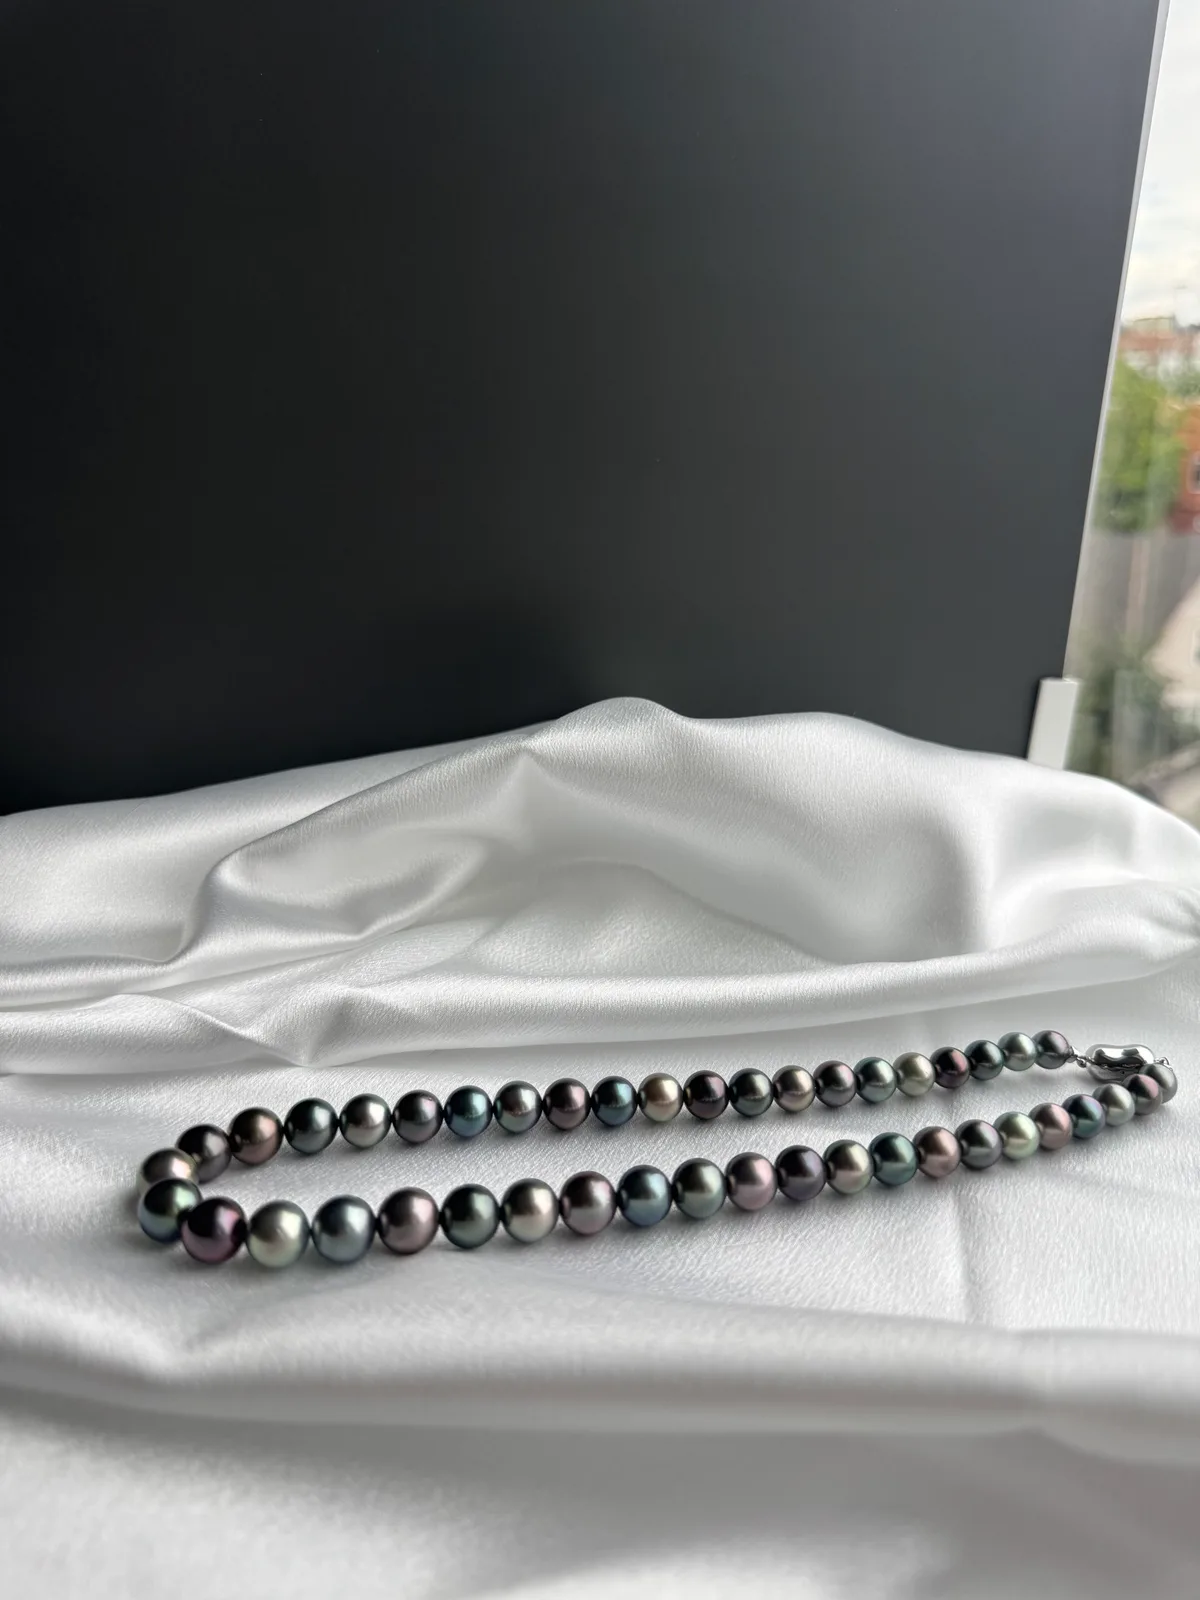
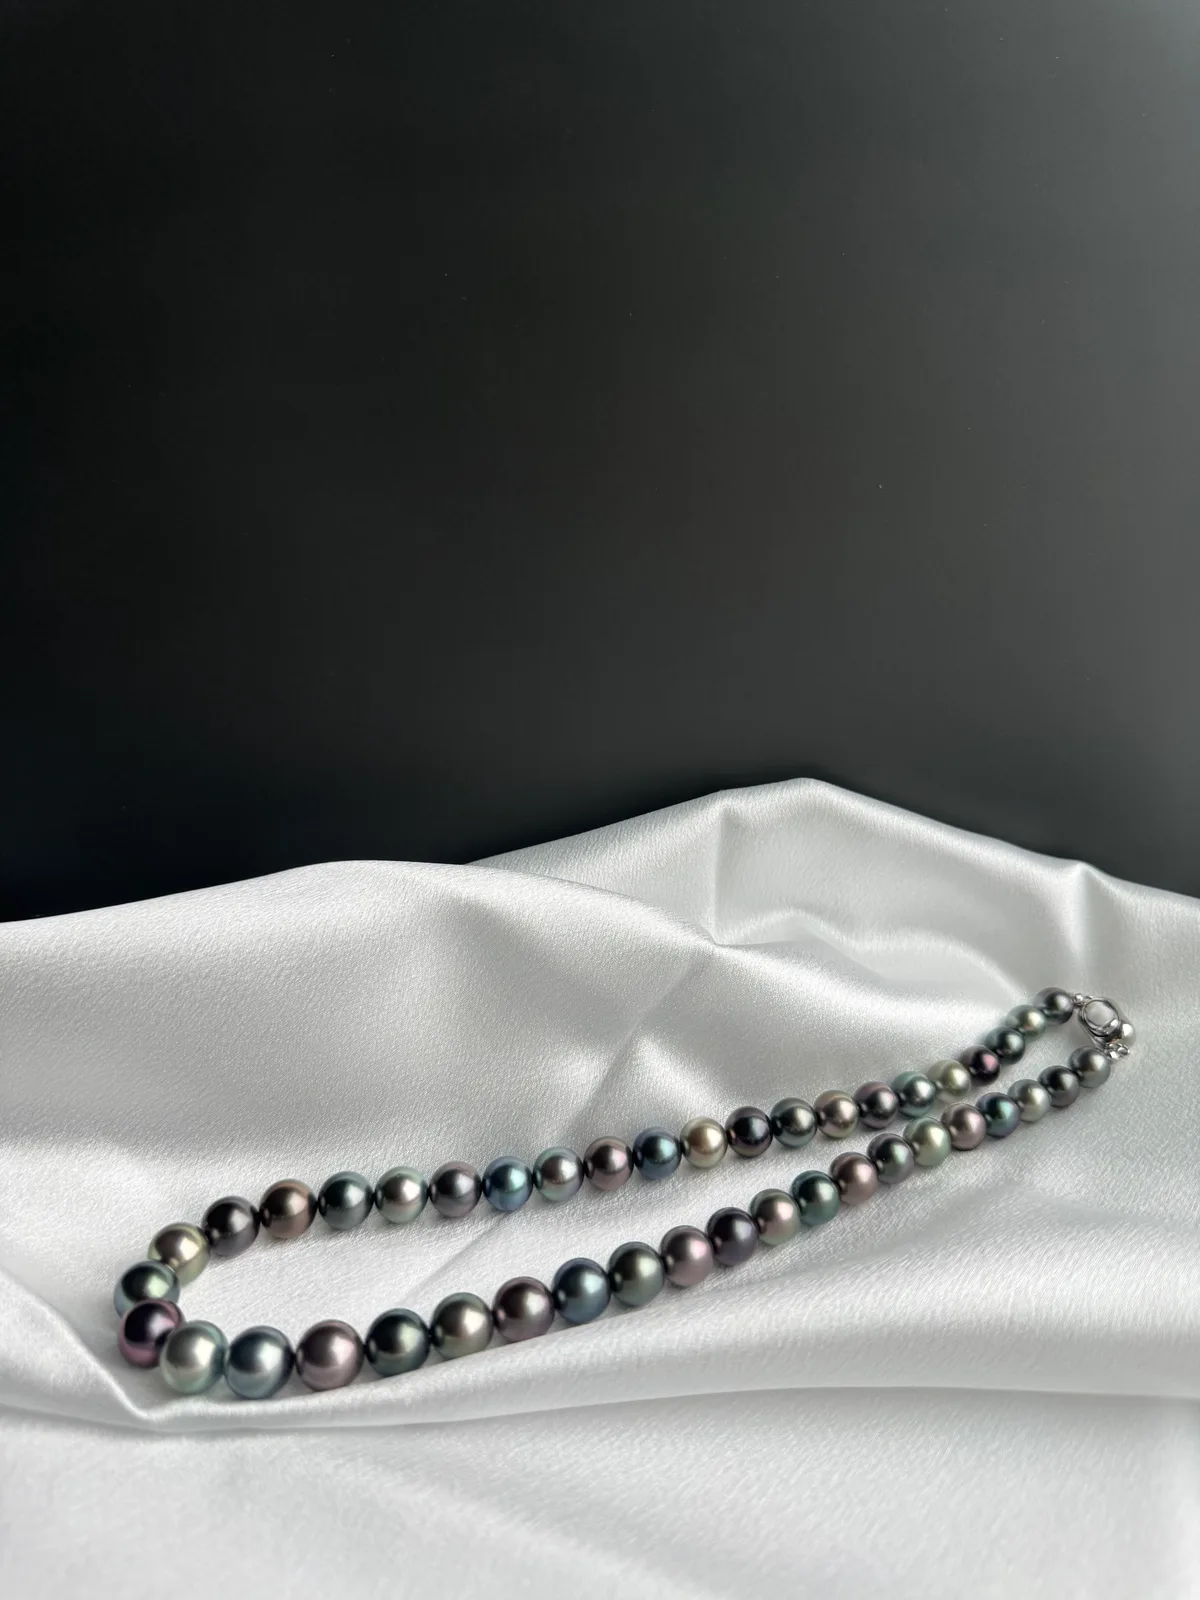
Add South Sea Apple pendant (Venus 13mm), reorder necklaces, refresh photos
- Mark Akoya Confetti and Akoya Full Strand (8.0-8.5mm) necklaces as out of
  stock, and move all out-of-stock necklaces to the end of the catalog
- Move Akoya Ribbon Full Strand Necklace to the front of the necklace page
- Add new South Sea Apple Pendant (Venus 13.0mm) product with EN/ZH copy
  and feature it on the New Arrivals page
- Refresh gallery photos for the South Sea 11.0mm earrings and the
  Tahitian full strand necklace

diff --git a/src/data/products/necklaces.ts b/src/data/products/necklaces.ts
@@ -2,6 +2,22 @@ import type { Product } from "./types";
 
 export const necklacesProducts: Product[] = [
   {
+    id: "necklace-akoya-8.5-9.0mm",
+    featured: false,
+    collection: "akoya",
+    category: "necklaces",
+    line: "forever",
+    titleKey: "products.necklace-akoya-8.5-9.0mm",
+    descriptionKey: "necklace-akoya-8.5-9.0mm",
+    images: [
+      "/gallery/necklace/necklace/akoya-8.5-9.0mm/akoya-8.5-9.0mm-1.webp",
+      "/gallery/necklace/necklace/akoya-8.5-9.0mm/akoya-8.5-9.0mm-2.webp",
+      "/gallery/necklace/necklace/akoya-8.5-9.0mm/akoya-8.5-9.0mm-3.webp",
+      "/gallery/necklace/necklace/akoya-8.5-9.0mm/akoya-8.5-9.0mm-4.webp",
+      "/gallery/necklace/necklace/akoya-8.5-9.0mm/akoya-8.5-9.0mm-5.webp",
+    ],
+  },
+  {
     id: "pendant-akoya-wg-diana",
     featured: false,
     collection: "akoya",
@@ -32,23 +48,6 @@ export const necklacesProducts: Product[] = [
       "/gallery/necklace/pendant/akoya-classic/akoya-classic-4.webp",
       "/gallery/necklace/pendant/akoya-classic/akoya-classic-5.webp",
       "/gallery/necklace/pendant/akoya-classic/akoya-classic-6.webp",
-    ],
-  },
-  {
-    id: "pendant-tahitian-necklace",
-    featured: false,
-    collection: "tahitian",
-    category: "necklaces",
-    line: "signature",
-    limited: true,
-    outOfStock: true,
-    titleKey: "products.pendant-tahitian-necklace",
-    descriptionKey: "pendant-tahitian-necklace",
-    images: [
-      "/gallery/necklace/pendant/tahitian-necklace/tahitian-necklace-1.webp",
-      "/gallery/necklace/pendant/tahitian-necklace/tahitian-necklace-2.webp",
-      "/gallery/necklace/pendant/tahitian-necklace/tahitian-necklace-3.webp",
-      "/gallery/necklace/pendant/tahitian-necklace/tahitian-necklace-4.webp",
     ],
   },
   {
@@ -84,96 +83,6 @@ export const necklacesProducts: Product[] = [
     ],
   },
   {
-    id: "necklace-akoya-7.5mm",
-    featured: false,
-    collection: "akoya",
-    category: "necklaces",
-    line: "signature",
-    outOfStock: true,
-    titleKey: "products.necklace-akoya-7.5mm",
-    descriptionKey: "necklace-akoya-7.5mm",
-    images: [
-      "/gallery/necklace/necklace/akoya-7.5mm/akoya-7.5mm-1.webp",
-      "/gallery/necklace/necklace/akoya-7.5mm/akoya-7.5mm-2.webp",
-      "/gallery/necklace/necklace/akoya-7.5mm/akoya-7.5mm-3.webp",
-      "/gallery/necklace/necklace/akoya-7.5mm/akoya-7.5mm-4.webp",
-    ],
-  },
-  {
-    id: "necklace-m-akoya-candy-8.0",
-    featured: false,
-    collection: "akoya",
-    category: "necklaces",
-    line: "forever",
-    limited: true,
-    titleKey: "products.necklace-m-akoya-candy-8.0",
-    descriptionKey: "necklace-m-akoya-candy-8.0",
-    images: [
-      "/gallery/necklace/necklace/m-akoya-candy-8.0/m-akoya-candy-8.0-1.webp",
-      "/gallery/necklace/necklace/m-akoya-candy-8.0/m-akoya-candy-8.0-2.webp",
-      "/gallery/necklace/necklace/m-akoya-candy-8.0/m-akoya-candy-8.0-3.webp",
-      "/gallery/necklace/necklace/m-akoya-candy-8.0/m-akoya-candy-8.0-4.webp",
-      "/gallery/necklace/necklace/m-akoya-candy-8.0/m-akoya-candy-8.0-5.webp",
-    ],
-  },
-  {
-    id: "necklace-m-akoya-8-8.5-q1",
-    featured: false,
-    collection: "akoya",
-    category: "necklaces",
-    line: "forever",
-    limited: true,
-    outOfStock: true,
-    titleKey: "products.necklace-m-akoya-8-8.5-q1",
-    descriptionKey: "necklace-m-akoya-8-8.5-q1",
-    images: [
-      "/gallery/necklace/necklace/m-akoya-8-8.5-q1/m-akoya-8-8.5-q1-1.webp",
-      "/gallery/necklace/necklace/m-akoya-8-8.5-q1/m-akoya-8-8.5-q1-2.webp",
-      "/gallery/necklace/necklace/m-akoya-8-8.5-q1/m-akoya-8-8.5-q1-3.webp",
-      "/gallery/necklace/necklace/m-akoya-8-8.5-q1/m-akoya-8-8.5-q1-4.webp",
-      "/gallery/necklace/necklace/m-akoya-8-8.5-q1/m-akoya-8-8.5-q1-5.webp",
-    ],
-  },
-  {
-    id: "necklace-m-akoya-8.5mm",
-    featured: false,
-    collection: "akoya",
-    category: "necklaces",
-    line: "forever",
-    limited: true,
-    titleKey: "products.necklace-m-akoya-8.5mm",
-    descriptionKey: "necklace-m-akoya-8.5mm",
-    images: [
-      "/gallery/necklace/necklace/m-akoya-8.5mm/m-akoya-8.5mm-1.webp",
-      "/gallery/necklace/necklace/m-akoya-8.5mm/m-akoya-8.5mm-2.webp",
-      "/gallery/necklace/necklace/m-akoya-8.5mm/m-akoya-8.5mm-3.webp",
-      "/gallery/necklace/necklace/m-akoya-8.5mm/m-akoya-8.5mm-4.webp",
-      "/gallery/necklace/necklace/m-akoya-8.5mm/m-akoya-8.5mm-5.webp",
-      "/gallery/necklace/necklace/m-akoya-8.5mm/m-akoya-8.5mm-6.webp",
-      "/gallery/necklace/necklace/m-akoya-8.5mm/m-akoya-8.5mm-7.webp",
-    ],
-  },
-  {
-    id: "necklace-southsea-8.0-10.0",
-    featured: false,
-    collection: "southsea",
-    category: "necklaces",
-    line: "forever",
-    outOfStock: true,
-    titleKey: "products.necklace-southsea-8.0-10.0",
-    descriptionKey: "necklace-southsea-8.0-10.0",
-    images: [
-      "/gallery/necklace/necklace/southsea-8.0-10.0/southsea-8.0-10.0-1.webp",
-      "/gallery/necklace/necklace/southsea-8.0-10.0/southsea-8.0-10.0-2.webp",
-      "/gallery/necklace/necklace/southsea-8.0-10.0/southsea-8.0-10.0-3.webp",
-      "/gallery/necklace/necklace/southsea-8.0-10.0/southsea-8.0-10.0-4.webp",
-      "/gallery/necklace/necklace/southsea-8.0-10.0/southsea-8.0-10.0-5.webp",
-      "/gallery/necklace/necklace/southsea-8.0-10.0/southsea-8.0-10.0-6.webp",
-      "/gallery/necklace/necklace/southsea-8.0-10.0/southsea-8.0-10.0-7.webp",
-      "/gallery/necklace/necklace/southsea-8.0-10.0/southsea-8.0-10.0-8.webp",
-    ],
-  },
-  {
     id: "necklace-bluebarouque",
     featured: false,
     collection: "keshi",
@@ -205,6 +114,7 @@ export const necklacesProducts: Product[] = [
       "/gallery/necklace/necklace/tahitian/tahitian-4.webp",
       "/gallery/necklace/necklace/tahitian/tahitian-5.webp",
       "/gallery/necklace/necklace/tahitian/tahitian-6.webp",
+      "/gallery/necklace/necklace/tahitian/tahitian-7.webp",
     ],
   },
   {
@@ -257,6 +167,21 @@ export const necklacesProducts: Product[] = [
     ],
   },
   {
+    id: "pendant-southsea-apple-13mm",
+    featured: false,
+    collection: "southsea",
+    category: "necklaces",
+    line: "signature",
+    limited: true,
+    titleKey: "products.pendant-southsea-apple-13mm",
+    descriptionKey: "pendant-southsea-apple-13mm",
+    images: [
+      "/gallery/necklace/pendant/southsea-apple-13mm-venus/southsea-apple-13mm-venus-1.webp",
+      "/gallery/necklace/pendant/southsea-apple-13mm-venus/southsea-apple-13mm-venus-2.webp",
+      "/gallery/necklace/pendant/southsea-apple-13mm-venus/southsea-apple-13mm-venus-3.webp",
+    ],
+  },
+  {
     id: "necklace-akoya-keshi",
     featured: false,
     collection: "akoya",
@@ -269,24 +194,6 @@ export const necklacesProducts: Product[] = [
       "/gallery/necklace/necklace/akoya-keshi/akoya-keshi-2.webp",
       "/gallery/necklace/necklace/akoya-keshi/akoya-keshi-3.webp",
       "/gallery/necklace/necklace/akoya-keshi/akoya-keshi-4.webp",
-    ],
-  },
-  {
-    id: "necklace-akoya-star",
-    featured: false,
-    collection: "akoya",
-    category: "necklaces",
-    line: "signature",
-    outOfStock: true,
-    titleKey: "products.necklace-akoya-star",
-    descriptionKey: "necklace-akoya-star",
-    images: [
-      "/gallery/necklace/necklace/akoya-star/akoya-star-1.webp",
-      "/gallery/necklace/necklace/akoya-star/akoya-star-2.webp",
-      "/gallery/necklace/necklace/akoya-star/akoya-star-3.webp",
-      "/gallery/necklace/necklace/akoya-star/akoya-star-4.webp",
-      "/gallery/necklace/necklace/akoya-star/akoya-star-6.webp",
-      "/gallery/necklace/necklace/akoya-star/akoya-star-7.webp",
     ],
   },
   {
@@ -385,22 +292,6 @@ export const necklacesProducts: Product[] = [
     ],
   },
   {
-    id: "necklace-akoya-8.5-9.0mm",
-    featured: false,
-    collection: "akoya",
-    category: "necklaces",
-    line: "forever",
-    titleKey: "products.necklace-akoya-8.5-9.0mm",
-    descriptionKey: "necklace-akoya-8.5-9.0mm",
-    images: [
-      "/gallery/necklace/necklace/akoya-8.5-9.0mm/akoya-8.5-9.0mm-1.webp",
-      "/gallery/necklace/necklace/akoya-8.5-9.0mm/akoya-8.5-9.0mm-2.webp",
-      "/gallery/necklace/necklace/akoya-8.5-9.0mm/akoya-8.5-9.0mm-3.webp",
-      "/gallery/necklace/necklace/akoya-8.5-9.0mm/akoya-8.5-9.0mm-4.webp",
-      "/gallery/necklace/necklace/akoya-8.5-9.0mm/akoya-8.5-9.0mm-5.webp",
-    ],
-  },
-  {
     id: "necklace-tahitian-peacock",
     featured: false,
     collection: "tahitian",
@@ -414,6 +305,133 @@ export const necklacesProducts: Product[] = [
       "/gallery/necklace/necklace/tahitian-peacock/tahitian-peacock-2.webp",
       "/gallery/necklace/necklace/tahitian-peacock/tahitian-peacock-4.webp",
       "/gallery/necklace/necklace/tahitian-peacock/tahitian-peacock-5.webp",
+    ],
+  },
+  {
+    id: "pendant-tahitian-necklace",
+    featured: false,
+    collection: "tahitian",
+    category: "necklaces",
+    line: "signature",
+    limited: true,
+    outOfStock: true,
+    titleKey: "products.pendant-tahitian-necklace",
+    descriptionKey: "pendant-tahitian-necklace",
+    images: [
+      "/gallery/necklace/pendant/tahitian-necklace/tahitian-necklace-1.webp",
+      "/gallery/necklace/pendant/tahitian-necklace/tahitian-necklace-2.webp",
+      "/gallery/necklace/pendant/tahitian-necklace/tahitian-necklace-3.webp",
+      "/gallery/necklace/pendant/tahitian-necklace/tahitian-necklace-4.webp",
+    ],
+  },
+  {
+    id: "necklace-akoya-7.5mm",
+    featured: false,
+    collection: "akoya",
+    category: "necklaces",
+    line: "signature",
+    outOfStock: true,
+    titleKey: "products.necklace-akoya-7.5mm",
+    descriptionKey: "necklace-akoya-7.5mm",
+    images: [
+      "/gallery/necklace/necklace/akoya-7.5mm/akoya-7.5mm-1.webp",
+      "/gallery/necklace/necklace/akoya-7.5mm/akoya-7.5mm-2.webp",
+      "/gallery/necklace/necklace/akoya-7.5mm/akoya-7.5mm-3.webp",
+      "/gallery/necklace/necklace/akoya-7.5mm/akoya-7.5mm-4.webp",
+    ],
+  },
+  {
+    id: "necklace-m-akoya-candy-8.0",
+    featured: false,
+    collection: "akoya",
+    category: "necklaces",
+    line: "forever",
+    limited: true,
+    outOfStock: true,
+    titleKey: "products.necklace-m-akoya-candy-8.0",
+    descriptionKey: "necklace-m-akoya-candy-8.0",
+    images: [
+      "/gallery/necklace/necklace/m-akoya-candy-8.0/m-akoya-candy-8.0-1.webp",
+      "/gallery/necklace/necklace/m-akoya-candy-8.0/m-akoya-candy-8.0-2.webp",
+      "/gallery/necklace/necklace/m-akoya-candy-8.0/m-akoya-candy-8.0-3.webp",
+      "/gallery/necklace/necklace/m-akoya-candy-8.0/m-akoya-candy-8.0-4.webp",
+      "/gallery/necklace/necklace/m-akoya-candy-8.0/m-akoya-candy-8.0-5.webp",
+    ],
+  },
+  {
+    id: "necklace-m-akoya-8-8.5-q1",
+    featured: false,
+    collection: "akoya",
+    category: "necklaces",
+    line: "forever",
+    limited: true,
+    outOfStock: true,
+    titleKey: "products.necklace-m-akoya-8-8.5-q1",
+    descriptionKey: "necklace-m-akoya-8-8.5-q1",
+    images: [
+      "/gallery/necklace/necklace/m-akoya-8-8.5-q1/m-akoya-8-8.5-q1-1.webp",
+      "/gallery/necklace/necklace/m-akoya-8-8.5-q1/m-akoya-8-8.5-q1-2.webp",
+      "/gallery/necklace/necklace/m-akoya-8-8.5-q1/m-akoya-8-8.5-q1-3.webp",
+      "/gallery/necklace/necklace/m-akoya-8-8.5-q1/m-akoya-8-8.5-q1-4.webp",
+      "/gallery/necklace/necklace/m-akoya-8-8.5-q1/m-akoya-8-8.5-q1-5.webp",
+    ],
+  },
+  {
+    id: "necklace-m-akoya-8.5mm",
+    featured: false,
+    collection: "akoya",
+    category: "necklaces",
+    line: "forever",
+    limited: true,
+    outOfStock: true,
+    titleKey: "products.necklace-m-akoya-8.5mm",
+    descriptionKey: "necklace-m-akoya-8.5mm",
+    images: [
+      "/gallery/necklace/necklace/m-akoya-8.5mm/m-akoya-8.5mm-1.webp",
+      "/gallery/necklace/necklace/m-akoya-8.5mm/m-akoya-8.5mm-2.webp",
+      "/gallery/necklace/necklace/m-akoya-8.5mm/m-akoya-8.5mm-3.webp",
+      "/gallery/necklace/necklace/m-akoya-8.5mm/m-akoya-8.5mm-4.webp",
+      "/gallery/necklace/necklace/m-akoya-8.5mm/m-akoya-8.5mm-5.webp",
+      "/gallery/necklace/necklace/m-akoya-8.5mm/m-akoya-8.5mm-6.webp",
+      "/gallery/necklace/necklace/m-akoya-8.5mm/m-akoya-8.5mm-7.webp",
+    ],
+  },
+  {
+    id: "necklace-southsea-8.0-10.0",
+    featured: false,
+    collection: "southsea",
+    category: "necklaces",
+    line: "forever",
+    outOfStock: true,
+    titleKey: "products.necklace-southsea-8.0-10.0",
+    descriptionKey: "necklace-southsea-8.0-10.0",
+    images: [
+      "/gallery/necklace/necklace/southsea-8.0-10.0/southsea-8.0-10.0-1.webp",
+      "/gallery/necklace/necklace/southsea-8.0-10.0/southsea-8.0-10.0-2.webp",
+      "/gallery/necklace/necklace/southsea-8.0-10.0/southsea-8.0-10.0-3.webp",
+      "/gallery/necklace/necklace/southsea-8.0-10.0/southsea-8.0-10.0-4.webp",
+      "/gallery/necklace/necklace/southsea-8.0-10.0/southsea-8.0-10.0-5.webp",
+      "/gallery/necklace/necklace/southsea-8.0-10.0/southsea-8.0-10.0-6.webp",
+      "/gallery/necklace/necklace/southsea-8.0-10.0/southsea-8.0-10.0-7.webp",
+      "/gallery/necklace/necklace/southsea-8.0-10.0/southsea-8.0-10.0-8.webp",
+    ],
+  },
+  {
+    id: "necklace-akoya-star",
+    featured: false,
+    collection: "akoya",
+    category: "necklaces",
+    line: "signature",
+    outOfStock: true,
+    titleKey: "products.necklace-akoya-star",
+    descriptionKey: "necklace-akoya-star",
+    images: [
+      "/gallery/necklace/necklace/akoya-star/akoya-star-1.webp",
+      "/gallery/necklace/necklace/akoya-star/akoya-star-2.webp",
+      "/gallery/necklace/necklace/akoya-star/akoya-star-3.webp",
+      "/gallery/necklace/necklace/akoya-star/akoya-star-4.webp",
+      "/gallery/necklace/necklace/akoya-star/akoya-star-6.webp",
+      "/gallery/necklace/necklace/akoya-star/akoya-star-7.webp",
     ],
   },
 ];

diff --git a/src/data/newArrivals.ts b/src/data/newArrivals.ts
@@ -5,6 +5,7 @@
 // ─────────────────────────────────────────────────────────────────────────────
 
 export const NEW_ARRIVAL_IDS: string[] = [
+	'pendant-southsea-apple-13mm', // Soul Signature - South Sea Apple Pendant (Venus 13.0mm)
 	'necklace-akoya-8.5-9.0mm', // Lumie Forever - Akoya Ribbon Full Strand Necklace (8.5-9.0mm)
 	'necklace-tahitian-peacock', // Eclipse Forever - Tahitian Peacock Green Full Strand Necklace
 	'bracelets-akoya-rose', // Lumie Signature - Akoya Rose Bracelet

diff --git a/src/data/products/earrings.ts b/src/data/products/earrings.ts
@@ -118,6 +118,10 @@ export const earringsProducts: Product[] = [
     images: [
       "/gallery/earrings/p-southsea-11.0mm/p-southsea-11.0mm-1.webp",
       "/gallery/earrings/p-southsea-11.0mm/p-southsea-11.0mm-2.webp",
+      "/gallery/earrings/p-southsea-11.0mm/p-southsea-11.0mm-3.webp",
+      "/gallery/earrings/p-southsea-11.0mm/p-southsea-11.0mm-4.webp",
+      "/gallery/earrings/p-southsea-11.0mm/p-southsea-11.0mm-5.webp",
+      "/gallery/earrings/p-southsea-11.0mm/p-southsea-11.0mm-6.webp",
     ],
   },
   {
